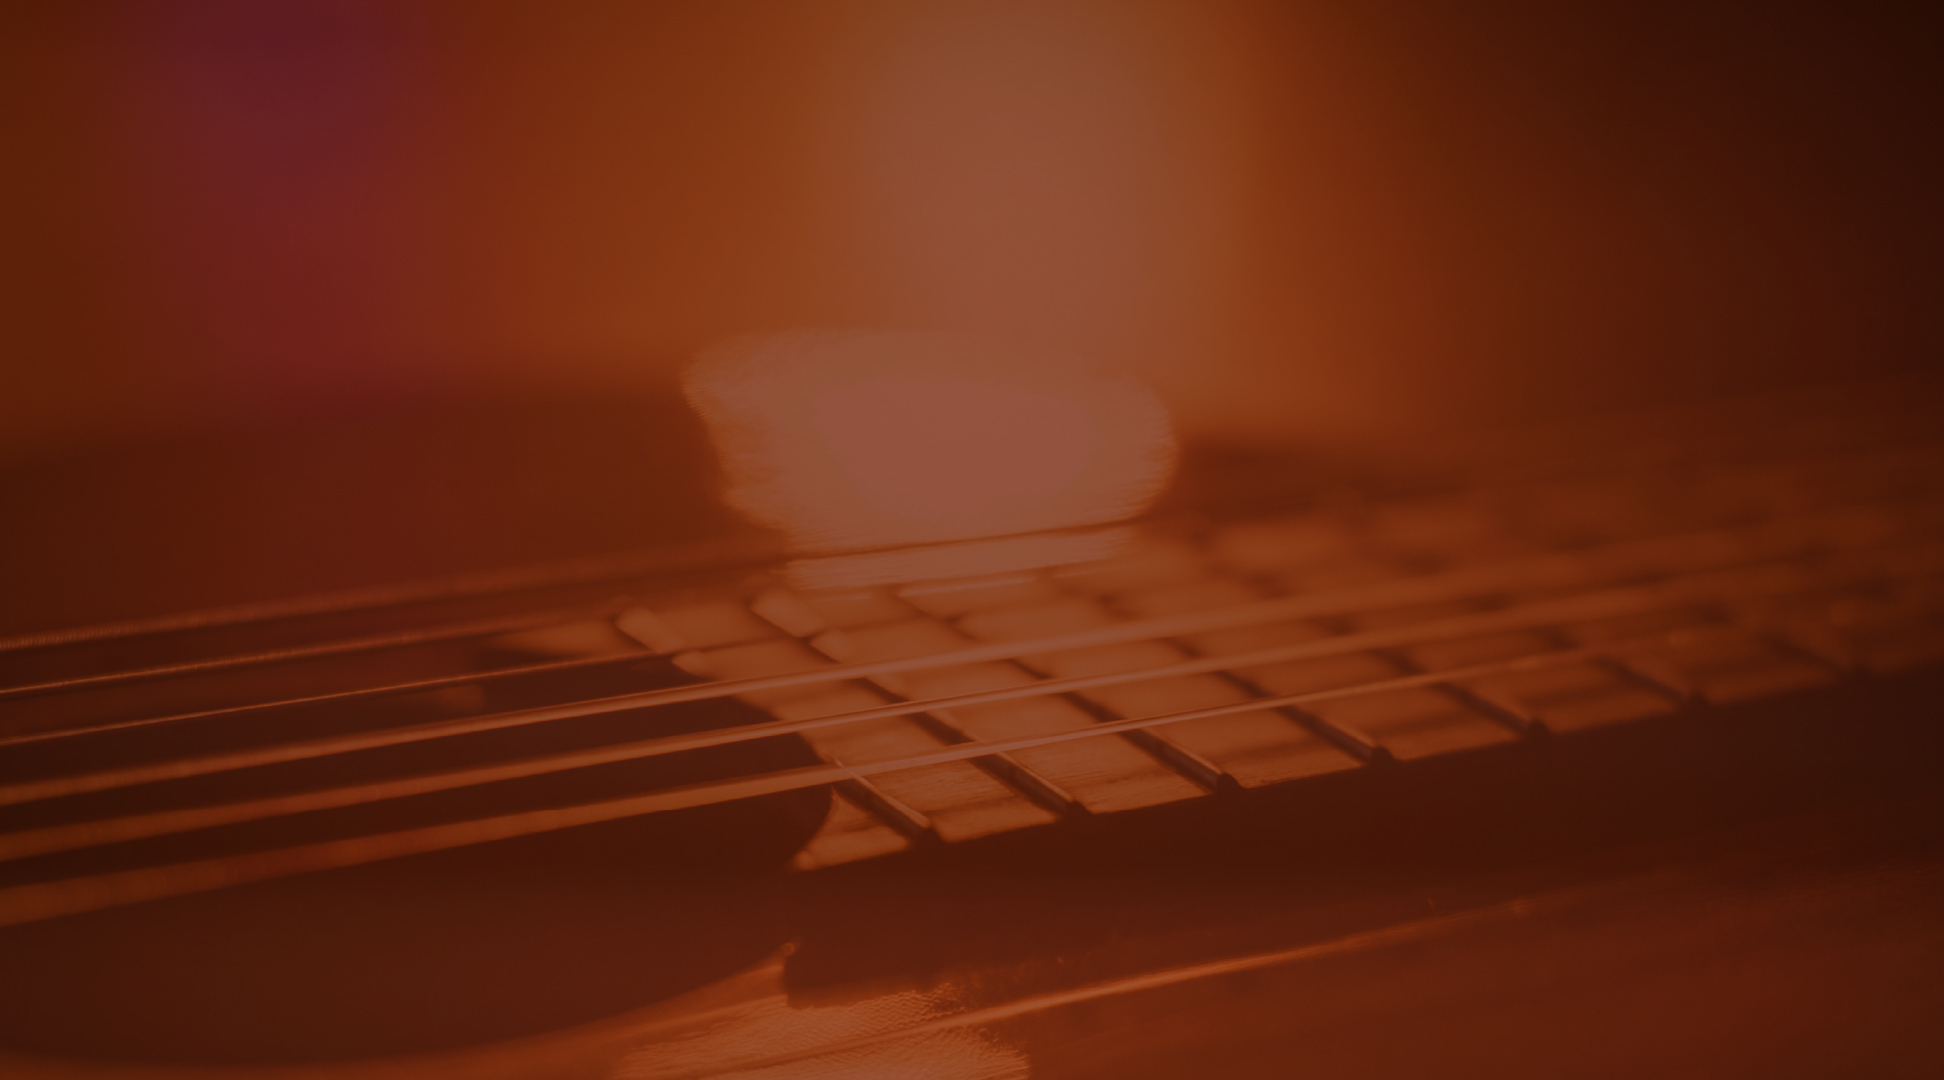
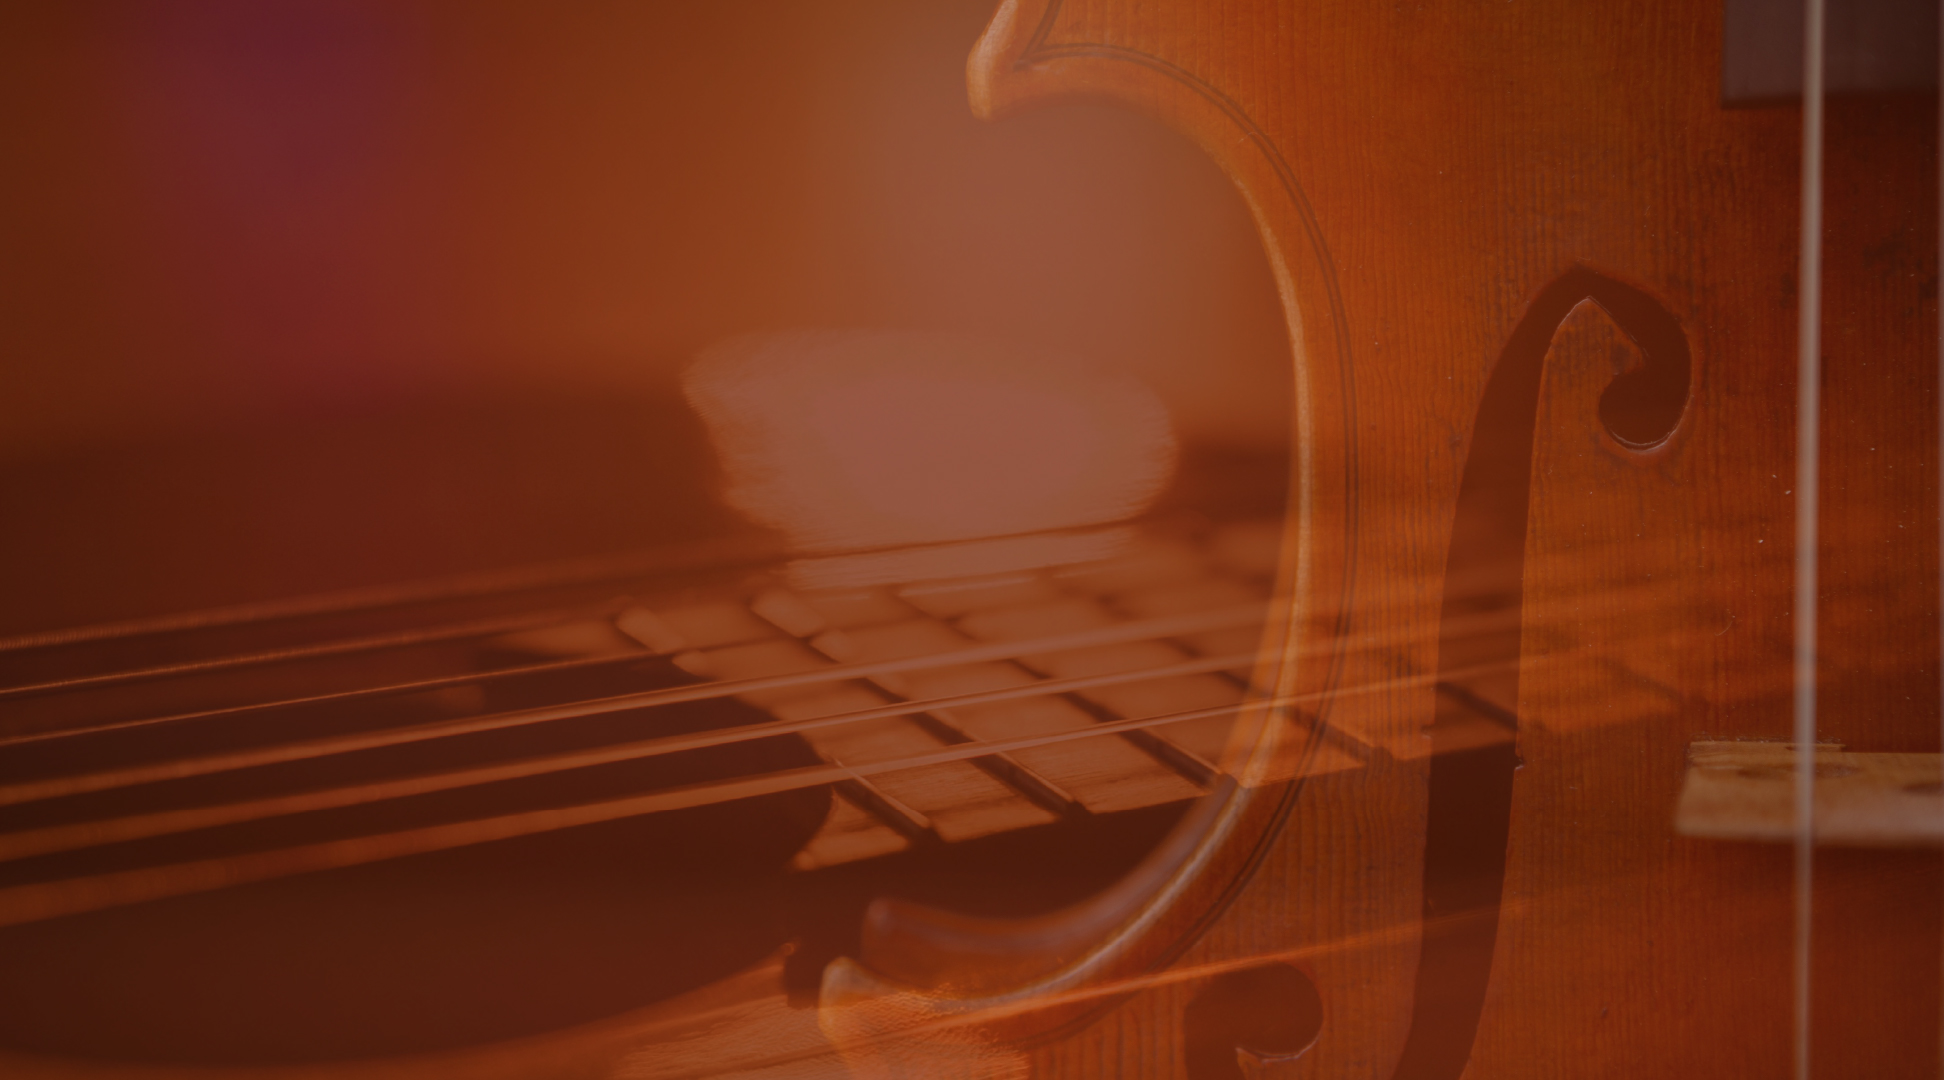
modified:   assets/hero/hero-background.png 	modified:   assets/hero/hero-home.jpg 	new file:   assets/instrumentos/instrumentos-background.png 	modified:   css/responsive.css 	modified:   css/style.css 	modified:   index.html

Changed region(s): [[0.4012, 0.0, 1.0, 1.0], [0.9877, 0.8861, 1.0, 1.0]]

diff --git a/css/style.css b/css/style.css
@@ -410,6 +410,7 @@ ul { list-style: none; }
   min-height: 100vh;
   display: flex;
   align-items: center;
+  justify-content: center;
   overflow: hidden;
   background: var(--dark);
 }
@@ -440,17 +441,16 @@ ul { list-style: none; }
 .hero-content {
   position: relative;
   z-index: 3;
-  margin-left: 120px;
-  margin-right: auto;
-  max-width: 660px;
-  text-align: left;
+  margin: 0 auto;
+  max-width: 760px;
+  text-align: center;
   padding: 130px var(--pad-x) 130px;
 }
 
 .hero-title {
   font-family: var(--serif);
-  font-weight: 400;
-  font-size: clamp(42px, 7vw, 98px);
+  font-weight: 600;
+  font-size: clamp(50px, 7vw, 98px);
   line-height: 1.02;
   letter-spacing: -.015em;
   color: #EEE9DF;
@@ -459,39 +459,19 @@ ul { list-style: none; }
 
 .hero-subtitle {
   font-family: var(--sans);
-  font-weight: 300;
+  font-weight: 400;
   font-size: clamp(16px, 1.5vw, 19px);
   line-height: 1.75;
   color: #EEE9DF;
-  margin: 0 0 38px;
+  margin: 0 auto 38px;
   max-width: 560px;
 }
 
 .hero-ctas {
   display: flex;
   gap: 16px;
-  justify-content: flex-start;
-  flex-wrap: wrap;
-}
-
-/* Right-side hero image (desktop only — hidden at 980px and below in responsive.css) */
-.hero-image {
-  position: relative;
-  z-index: 3;
-  flex-shrink: 0;
-  align-self: stretch;
-  display: flex;
-  align-items: flex-end;
   justify-content: center;
-  max-width: min(38vw, 480px);
-  margin-right: var(--pad-x);
-  padding: 60px 0;
-}
-.hero-image img {
-  width: 100%;
-  height: auto;
-  max-height: 78vh;
-  object-fit: contain;
+  flex-wrap: wrap;
 }
 
 .scroll-indicator {
@@ -534,7 +514,7 @@ ul { list-style: none; }
   position: absolute;
   left: 0;
   right: 0;
-  top: -80px;
+  top: -100px;
   bottom: 0;
   z-index: 0;
   background-image: url("../assets/hero/hero-background.png");
@@ -946,7 +926,10 @@ ul { list-style: none; }
    5 · INSTRUMENTOS
 ============================================================ */
 .instrumentos {
-  background: var(--bg);
+  background-color: #5c2511;
+  background-image: url("../assets/instrumentos/instrumentos-background.png");
+  background-repeat: no-repeat;
+  background-position: left top;
   padding: var(--pad-y) 0;
   overflow: hidden;
 }
@@ -1222,8 +1205,31 @@ ul { list-style: none; }
    6 · MADERAS
 ============================================================ */
 .maderas {
-  background: var(--bg-alt);
+  position: relative;
+  background-color: var(--bg-alt);
+  background-image: url("../assets/instrumentos/instrumentos-background.png");
+  background-repeat: no-repeat;
+  background-position: left center;
   padding: var(--pad-y) 0;
+}
+
+/* Torn-paper edge bleeds down over the top of Galería */
+.maderas::after {
+  content: "";
+  position: absolute;
+  left: 0;
+  right: 0;
+  bottom: -70px;
+  height: 420px;
+  z-index: 2;
+  background-image: url("../assets/instrumentos/instrumentos-background.png");
+  background-repeat: no-repeat;
+  background-position: left bottom;
+}
+
+.maderas .container {
+  position: relative;
+  z-index: 3;
 }
 
 .accordion {
@@ -1234,7 +1240,7 @@ ul { list-style: none; }
 
 .wood-item {
   background: rgba(255, 255, 255, 0.25); /* Ajustá el último valor entre 0 y 1 */
-  border: 1px solid var(--border-light);
+  /* border: 1px solid var(--border-light); */
   border-radius: 0;
   overflow: hidden;
   transition: box-shadow var(--t);
@@ -1498,10 +1504,10 @@ ul { list-style: none; }
   color: var(--accent);
 }
 .contact-row dd {
-  font-family: ui-monospace, monospace;
-  font-size: 12px;
+  font-family: var(--sans);
+  font-size: 14px;
   letter-spacing: .04em;
-  color: #9aa4b0;
+  color: #ffffff;
   margin: 0;
 }
 

diff --git a/index.html b/index.html
@@ -113,11 +113,6 @@
         </div>
       </div>
 
-      <!-- Right-side image (desktop only) -->
-      <div class="hero-image" data-reveal>
-        <img src="assets/hero/hero-instrumento.png" alt="" loading="eager">
-      </div>
-
       <!-- Scroll indicator -->
       <a href="#filosofia" class="scroll-indicator" aria-label="Ir a Filosofía">
         <span class="scroll-label"></span>
@@ -723,23 +718,23 @@
             <dl class="contact-details">
               <div class="contact-row">
                 <dt>Dirección</dt>
-                <dd>a completar</dd>
+                <dd>Av. San Juan 350 - San Telmo - CABA</dd>
               </div>
               <div class="contact-row">
                 <dt>Horarios</dt>
-                <dd>a completar</dd>
+                <dd>8 am - 6 pm</dd>
               </div>
               <div class="contact-row">
                 <dt>WhatsApp</dt>
-                <dd>a completar</dd>
+                <dd>[phone redacted]</dd>
               </div>
               <div class="contact-row">
                 <dt>Correo electrónico</dt>
-                <dd>a completar</dd>
+                <dd>[email redacted]</dd>
               </div>
               <div class="contact-row">
                 <dt>Redes sociales</dt>
-                <dd>a completar</dd>
+                <dd>@trastes_lutheria</dd>
               </div>
             </dl>
           </div>

diff --git a/css/responsive.css b/css/responsive.css
@@ -26,9 +26,6 @@
 
   /* Instrument carousel arrows: desktop only */
   .inst-nav-btn { display: none; }
-
-  /* Hero right-side image: desktop only */
-  .hero-image { display: none; }
 }
 
 /* ── 820px: Collapse 2-column layouts ────────────────────── */
@@ -99,7 +96,7 @@
   /* Hero CTAs: side by side → stacked */
   .hero-ctas {
     flex-direction: column;
-    align-items: flex-start;
+    align-items: center;
   }
   .hero-ctas .btn {
     width: 100%;